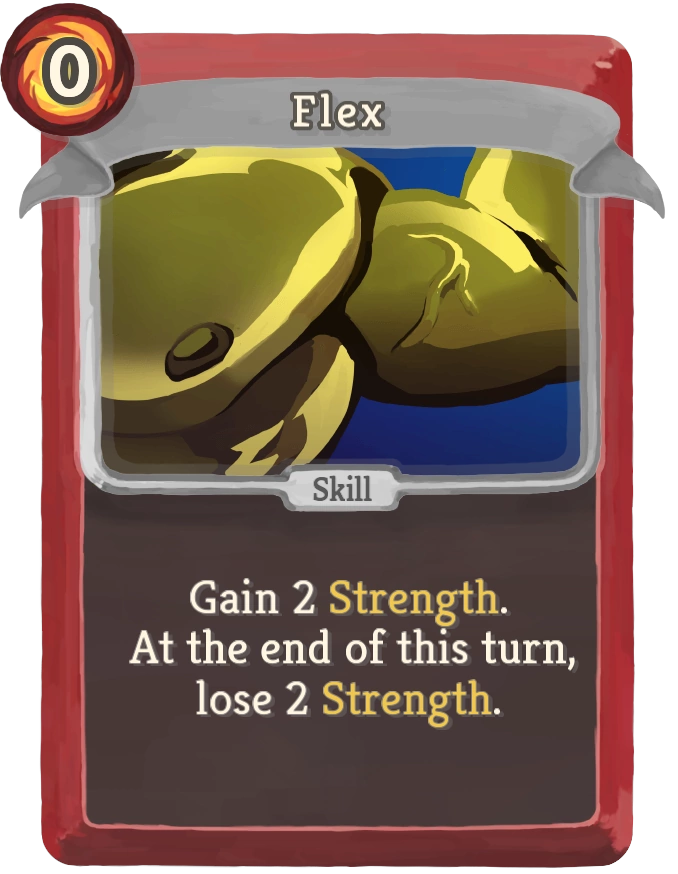
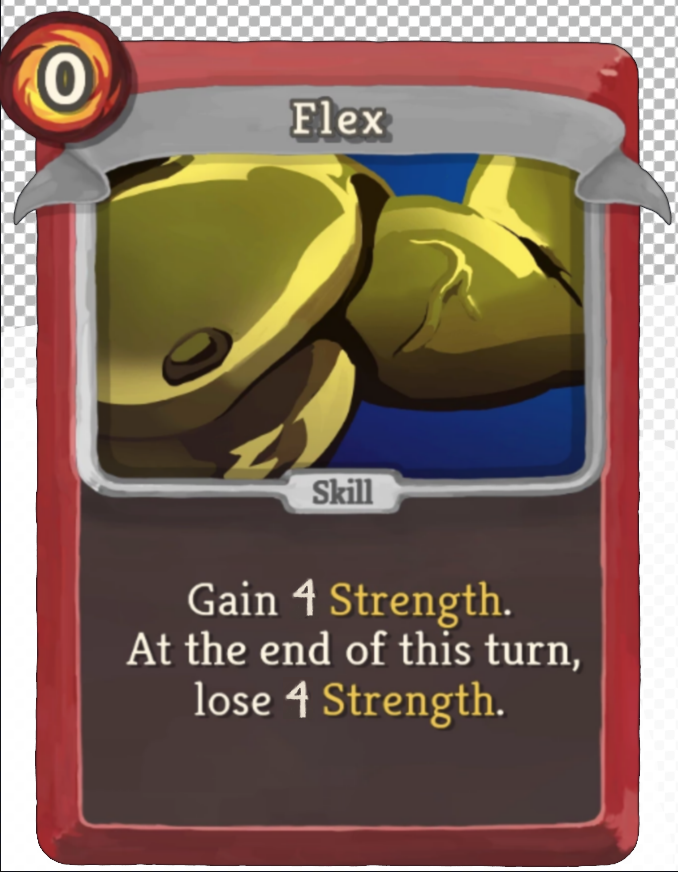
add strengthCard animation and end turn timer

diff --git a/graphics.js b/graphics.js
@@ -17,8 +17,6 @@ class Graphic {
         this.eCount = 0
         this.pCount = 0
         this.dCount = 0
-        this.sCount = 19
-       console.log(this.sCount)
         this.attackAnimation = this.attackAnimation.bind(this)
         this.attackFrame = this.attackFrame.bind(this)
         this.notEnoughEnergy = this.notEnoughEnergy.bind(this)
@@ -28,16 +26,22 @@ class Graphic {
 
     draw(){
         this.displaySwordEnergy();
-        this.playerAnimation();
+        // this.playerAnimation();
         this.playerHealth();
         this.displayShield();
         this.enemyHeart();
         this.displayEnemyShield()
         this.displayTurnNumber();
-        // if (this.sCount < 19){
-        //     this.strengthAnimation()
-        // }
+        console.log("DRAW CALLED", this.sCount)
+        if (this.sCount < 19){
+            console.log("IVE BEEN CALLED", this.sCount)
+            this.strengthAnimation()
+        }
        
+    }
+
+    reset(){
+        this.sCount = 0
     }
 
     // VERSION 1 PLAYER HEART
@@ -47,8 +51,8 @@ class Graphic {
     // }
 
     playerHealth() {
-        let img = document.getElementById("heart")
-        this.ctx.drawImage(img, 330, 310, 160, 50)
+        let img = document.getElementById("enemyheart")
+        this.ctx.drawImage(img, 384, 323, 50, 45)
     }
 
     enemyHeart(){
@@ -72,53 +76,52 @@ class Graphic {
         this.ctx.fillText("Turn: " + this.room.turn, 100, 80);
     }
 
-    playerAnimation() {
-        // let playerId = null;
-        this.pCount += 1
-
-        if (this.pCount === 4) {
-            if (this.playerIds.length > 0) {
-                this.playerId = this.playerIds.shift();
-            } else {
-                this.playerIds = ["p1", "p2", "p3", "p4", "p5", "p6", "p7", "p8"];
-                this.playerId = this.playerIds.shift();
-            }
-            let img = document.getElementById(this.playerId);
-            this.ctx.drawImage(img, 350, 150, 100, 150);
-            this.pCount = 0
-
-        } else {
-            // console.log(this.playerId)
-            // if (this.playerIds.length === 0) {
-            //     let img = document.getElementById(this.defaultId);
-            //     this.ctx.drawImage(img, 350, 150, 100, 150);
-            // } else {
-                let img = document.getElementById(this.playerId);
-                this.ctx.drawImage(img, 350, 150, 100, 150);
-            // }
-        }
+    // playerAnimation() {
         
-    };
+    //     this.pCount += 1
+
+    //     if (this.pCount === 4) {
+    //         if (this.playerIds.length > 0) {
+    //             this.playerId = this.playerIds.shift();
+    //         } else {
+    //             this.playerIds = ["p1", "p2", "p3", "p4", "p5", "p6", "p7", "p8"];
+    //             this.playerId = this.playerIds.shift();
+    //         }
+    //         let img = document.getElementById(this.playerId);
+    //         this.ctx.drawImage(img, 350, 150, 100, 150);
+    //         this.pCount = 0
+
+    //     } else {
+    //             let img = document.getElementById(this.playerId);
+    //             this.ctx.drawImage(img, 350, 150, 100, 150);
+    //     }
+        
+    // };
 
     // strengthAnimation(){
+    //     console.log("ANIMATIONCOUNT", this.sCount)
     //     this.sCount += 1
     //     if (this.sCount < 19){
-    //         if (this.sCount > 6 && this.sCount < 19 ){
+    //         if (this.sCount > 6 && this.sCount < 15){
     //             this.strengthX = 155;
     //             this.strengthY += 1;
     //         } else {
     //             this.strengthX = 100;
-    //             // this.strengthY = 170;
+    //             this.strengthY = 170;
     //         }
 
     //         let id = this.strengthIds[this.sCount]
     //         let img = document.getElementById(id);
     //         this.ctx.drawImage(img, 350, 140, this.strengthX, this.strengthY);
-    //     } else {
-    //         // this.sCount = 0
-    //         this.strengthY = 150;
-    //         this.strengthX = 100;
+           
+    //     // } 
+    //     //     // // this.sCount = 0
+    //     //     // this.strengthY = 150;
+    //     //     // this.strengthX = 100;
 
+    //     // }
+    //     } else {
+    //         this.sCount = 0
     //     }
         
     // }

diff --git a/game.js b/game.js
@@ -21,7 +21,7 @@ class Game {
 
         
         this.player.showCards();
-        
+        this.eCount = 10
 
         this.deckback = this.deckback.bind(this);
 
@@ -63,13 +63,13 @@ class Game {
         this.ctx.fillStyle = "white"
         this.ctx.fillText("PRESS ANY BUTTON TO CONTINUE", 400, 600);
 
-        const startPress = (event) => {
+        const startPress2 = (event) => {
             this.state = "playMode"
             window.bgm.play()
-            removeEventListener("click", startPress);
+            removeEventListener("click", startPress2);
         }
 
-        addEventListener("keypress", startPress);
+        addEventListener("keypress", startPress2);
     }
 
 
@@ -90,6 +90,9 @@ class Game {
             this.enemy.draw();
             this.player.draw();
             this.room.draw();
+            if (this.eCount < 10){
+                this.enemyTurnBanner()
+            }
         } else if (this.state === "rewardScreen"){
             this.rewardScreen();
         } else if (this.state === "loseScreen"){
@@ -158,7 +161,9 @@ class Game {
                 removeEventListener("click", rhp);
                 this.player.health += 8;
                 this.state = "playMode";
-                
+                this.deck.reload();
+                this.player.drawCards();
+                this.player.showCards();
             }
         }
 
@@ -294,6 +299,7 @@ class Game {
             this.ctx.font = "bold italic 40px Arial";
             this.ctx.fillStyle = "white"
             this.ctx.fillText("Final Area: "+ this.room.level, 650, 300);
+            
 
             //  this.ctx.font = "bold 28px Arial";
             //  this.ctx.fillStyle = "white"
@@ -334,7 +340,8 @@ class Game {
        addEventListener("click", (event) => {
             const rec = this.canvas.getBoundingClientRect();
             if (this.ctx.isPointInPath(button, event.clientX - rec.x, event.clientY - rec.y)) {
-                this.enemyTurn()
+                setTimeout( ()=>{this.enemyTurn()}, 1000)
+                this.eCount = 0
                 // alert("OPPONENT'S TURN")
             }
            
@@ -365,6 +372,30 @@ class Game {
         // })
     }
 
+    enemyTurnBanner(){
+        this.eCount += 1
+        
+
+        this.ctx.fillStyle = "rgba(0,0,0,0.5)";
+        this.ctx.rect(0, 0, this.canvas.width, this.canvas.height);
+
+        
+        this.ctx.fillRect(0,75, this.canvas.width, 150)
+        this.ctx.fill()
+    
+        
+        this.ctx.font = "bold italic 55px Arial";
+        this.ctx.fillStyle = "white"
+        this.ctx.fillText("Enemy Turn", 650, 180);
+
+        this.ctx.fillStyle = "red"
+        this.ctx.rect(0, 20, this.canvas.width, 100)
+
+    
+    
+
+        
+    }
 
 
     

diff --git a/player.js b/player.js
@@ -20,6 +20,14 @@ class Player {
         this.slashSound = document.getElementById("slash");
         this.shieldSound = document.getElementById("shieldsound");
 
+        this.strengthIds = ["s1", "s2", "s3", "s4", "s5", "s6", "s7", "s8", "s9", "s10", "s11", "s12", "s13", "s14", "s15", "s16", "s17", "s18", "s19", "s20", "s21", "s22", "s23"];
+        this.strengthY = 165
+        this.strengthX = 100
+        this.sCount = 19
+
+        this.playerIds = ["p1", "p2", "p3", "p4", "p5", "p6", "p7", "p8"]
+        this.pCount = 0
+
     
         // CARD AREA 1 LISTERNER
         const cardOne = new Path2D();
@@ -88,6 +96,12 @@ class Player {
     draw() {
         this.showCards();
         this.displayStats();
+        if (this.sCount < 19) {
+            this.strengthAnimation()
+        } else {
+            this.playerAnimation()
+        }
+    
     }
 
 
@@ -160,7 +174,8 @@ class Player {
                 this.health += card.value; 
             } else if (card.type === "strength") {
                     this.strength += card.value;
-                    // this.graphic.sCount = 0
+                    this.sCount = 0
+                    //  console.log(this.graphic.sCount)
             } else if (card.type === "bloodletting") {
                 this.health += card.value
                 this.energy += 1
@@ -196,6 +211,46 @@ class Player {
     }
 
     
-   
+    strengthAnimation() {
+        console.log("ANIMATIONCOUNT", this.sCount)
+        this.sCount += 1
+        if (this.sCount < 19) {
+            if (this.sCount > 6 && this.sCount < 15) {
+                this.strengthX = 155;
+                this.strengthY += 1;
+            } else {
+                this.strengthX = 100;
+                this.strengthY = 170;
+            }
+
+            let id = this.strengthIds[this.sCount]
+            let img = document.getElementById(id);
+            this.ctx.drawImage(img, 350, 140, this.strengthX, this.strengthY);
+
+        }
+    }
+
+    playerAnimation() {
+
+        this.pCount += 1
+
+        if (this.pCount === 4) {
+            if (this.playerIds.length > 0) {
+                this.playerId = this.playerIds.shift();
+            } else {
+                this.playerIds = ["p1", "p2", "p3", "p4", "p5", "p6", "p7", "p8"];
+                this.playerId = this.playerIds.shift();
+            }
+            let img = document.getElementById(this.playerId);
+            this.ctx.drawImage(img, 350, 150, 100, 150);
+            this.pCount = 0
+
+        } else {
+            let img = document.getElementById(this.playerId);
+            this.ctx.drawImage(img, 350, 150, 100, 150);
+        }
+
+    };
+
     
 }

diff --git a/index.html b/index.html
@@ -7,7 +7,6 @@
 
     <link rel="stylesheet" href="style.css">
 
-    <script src="./graphics.js"></script>
     <script src="./deck.js"></script>
     <script src="./player.js"></script>
     <script src="./hand.js"></script>
@@ -16,9 +15,7 @@
     <script src="./enemy.js"></script>
     <script src="./room.js"></script>
     <script src="./rain.js"></script>
-
-
-
+        <script src="./graphics.js"></script>
 
 
 

diff --git a/deck.js b/deck.js
@@ -7,7 +7,7 @@ class Deck {
         while (cardArr.length < 12) {
             cardArr.push(new defendCard)
             cardArr.push(new attackCard);
-            // cardArr.push(new strengthCard)
+            cardArr.push(new strengthCard)
         }
 
        

diff --git a/cards.js b/cards.js
@@ -29,7 +29,7 @@ class strengthCard {
     constructor() {
         this.img = document.getElementById("strength");
         this.type = "strength";
-        this.value = 2;
+        this.value = 4;
         this.cost = 0;
     }
 }
